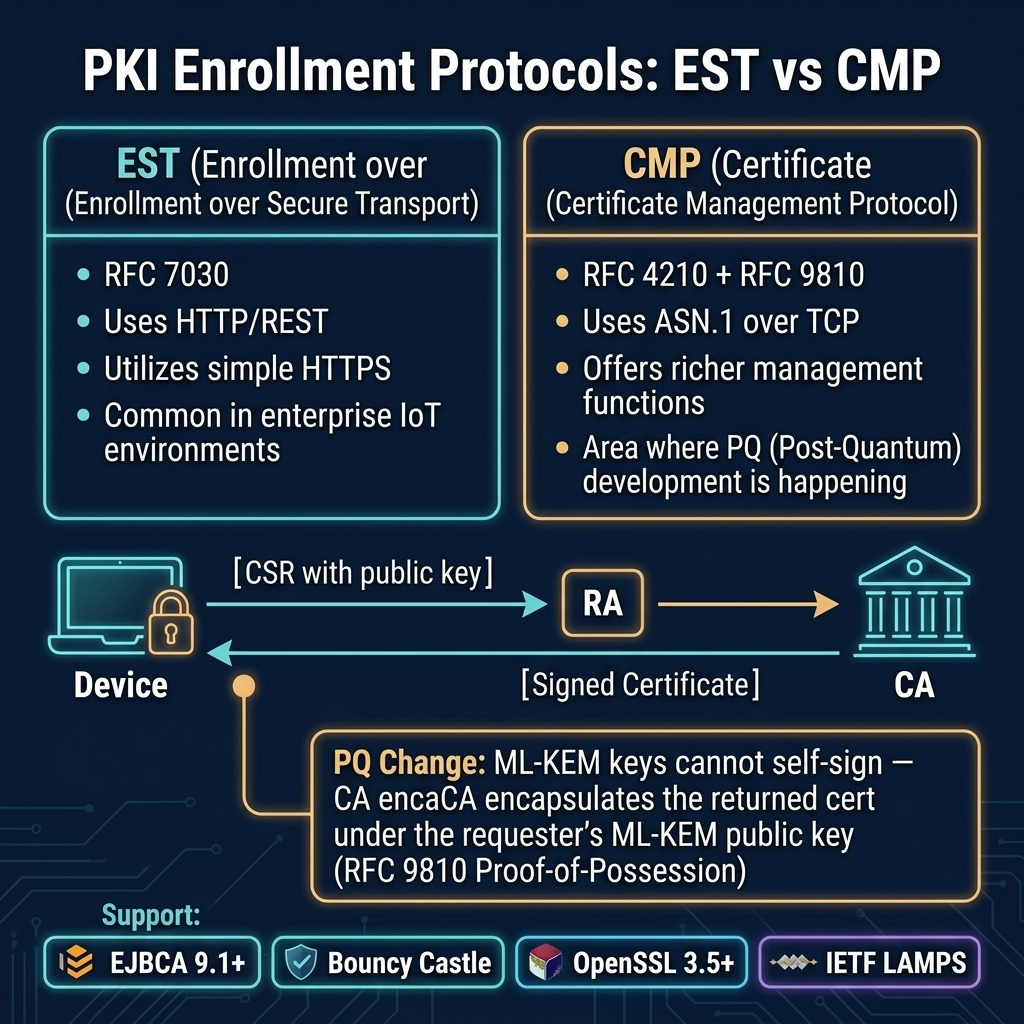
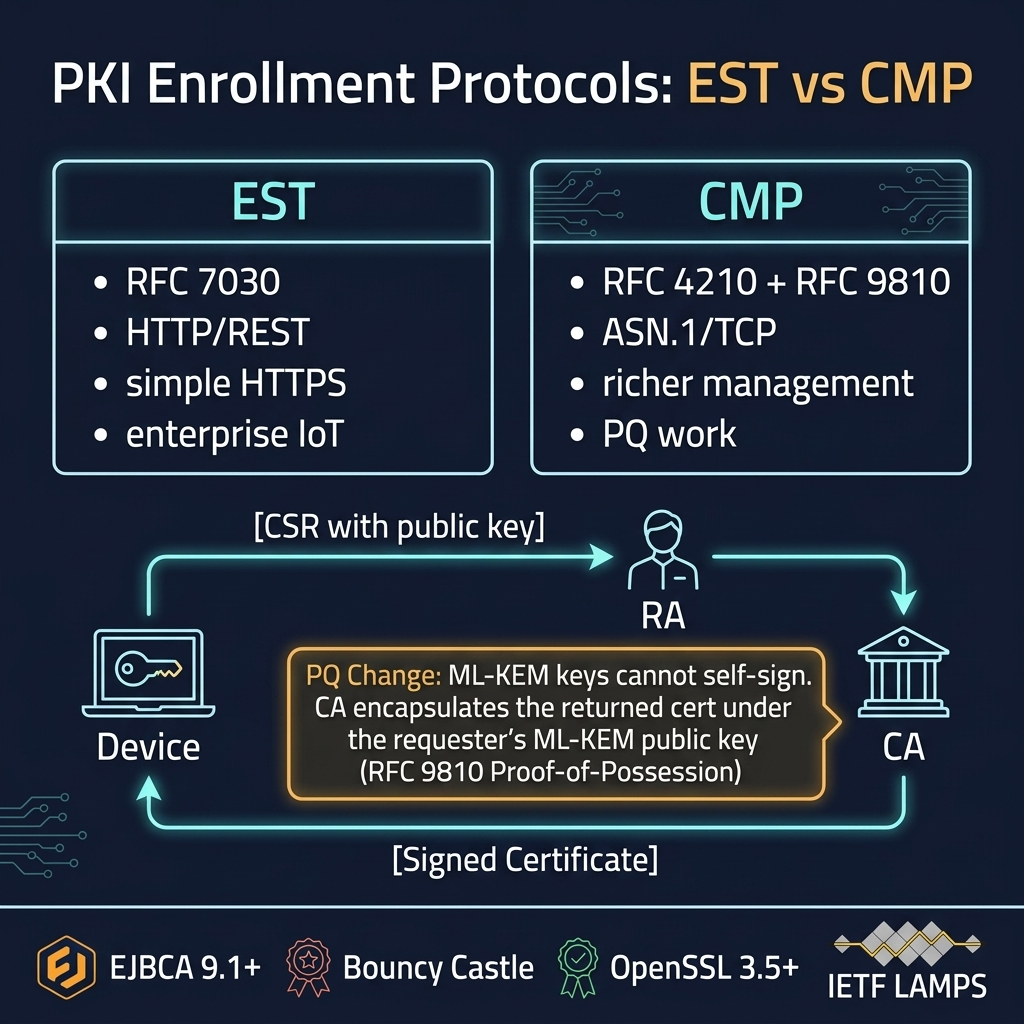
feat(library): add Circle PQC Roadmap 2026 + update infographics
Add Circle-PQC-Roadmap-2026 to library CSV (library_05302026.csv) —
Circle/Stanford whitepaper on PQC migration for blockchain, USDC smart
contracts, and the Arc blockchain. Covers seven blockchain quantum attack
vectors, SLH-DSA-SHA2-128s on-chain precompile, X-Wing hybrid KEM,
TEE private execution, ecrecover fix, and quantum flag day policy.

Also updates pqcstd_pki-enrollment-protocols.png and
pqcstd_pqc-candidates.png with improved Gemini-generated visuals.

diff --git a/CHANGELOG.md b/CHANGELOG.md
@@ -14,6 +14,7 @@ TLS and Merkle Tree Certificates — quantum downgrade attack coverage (Bas West
 - **Hybrid Cryptography module updated.** New bullet on hybrid TLS negotiation downgrade risk — MITM can strip ML-KEM from key_share even when both endpoints support hybrid — with cross-reference to TLS Basics for the full PQ Lock / PQC Continuity mitigation treatment. Notes that composite signatures (single OID) prevent the analogous authentication downgrade.
 - **Four new library references** — all wired to the TLS Basics and Merkle Tree Certs reference tabs: **`draft-sheffer-tls-pqc-continuity`** (PQC Continuity: Downgrade Protection for TLS, Sheffer; Westerbaan; Aviram, IETF), **`Westerbaan-PQCrypto2025-Slides`** (invited PQCrypto 2025 talk by Bas Westerbaan, Cloudflare Research — covers max-compat mode, downgrade attack, PQ Lock, Continuity, MTC), **`Root-Causes-614-MTC-Downgrade`** (Root Causes Podcast ep. 614, Bas Westerbaan + Sectigo hosts), **`draft-reddy-lamps-x509-pq-commit`** (X.509 Extensions for PQC Continuity, certificate-layer complement to the TLS draft). `draft-ietf-tls-mldsa-03` (Hollebeek; Schmieg; Westerbaan) also linked to the TLS Basics module.
 - **PQCCandidates curious-summary wired in CuriousSummaryBanner.** Adds `PQCCandidates → 'pqc-candidates'` directory mapping so the curious-mode summary renders for the PQC Candidates module.
+- **New library document — Circle's Post-Quantum Security Roadmap (2026).** `Circle-PQC-Roadmap-2026` — co-authored by Circle (Belenkiy, Le, Liao, Sehrawat, Rotaru, Gorbunov, Sheth, Logelin, De Abreu) and Dan Boneh (Stanford). Catalogs seven quantum attack vectors on the full blockchain stack: at-rest forgery via EVM `ecrecover` (every account that has ever signed is exposed), retroactive privacy loss (HNDL), consensus disruption, chain history rewrite, P2P session compromise (libp2p/Noise), RPC interception, and on-spend key recovery. Readiness phase: SLH-DSA-SHA2-128s precompile on Arc mainnet + X-Wing hybrid KEM (ML-KEM-768 + X25519) for TLS 1.3 and encrypted memos + TEE private execution layer (AWS Nitro/SGX/TDX). Transition phase: dual-mode USDC smart contracts, post-quantum `ecrecover` override, multi-sig cold storage, encrypted mempool. Switch phase: full PQ validator signatures, account recovery (dual-key BIP-39, TEE-attested ZK, off-chain). Policy section covers quantum flag day regulatory implications for stranded USDC assets and `escheat` doctrine. Wired to modules: digital-assets, quantum-threats, slh-dsa, hybrid-crypto, crypto-mgmt-modernization, pqc-risk-management, migration-program, crypto-agility, kms-pqc, confidential-computing, stateful-signatures.
 - **Visual consistency audit — all 55 learn modules now have `pqcstd_` format infographics.** Four modules were missing visuals at every fallback tier (slh-dsa, pki-enrollment-protocols, mls-group-messaging, pqc-candidates); four new `pqcstd_` PNGs added. MLSGroupMessaging was also missing its Visual tab entirely — tab and `ModuleVisualTab` wiring added. All modules now render the infographic correctly for all personas (including curious mode via `CuriousModuleView` / `CuriousStackCarousel`) on both mobile and desktop.
 
 ---
